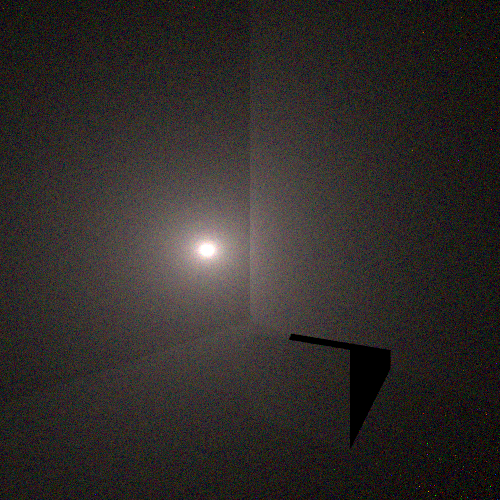
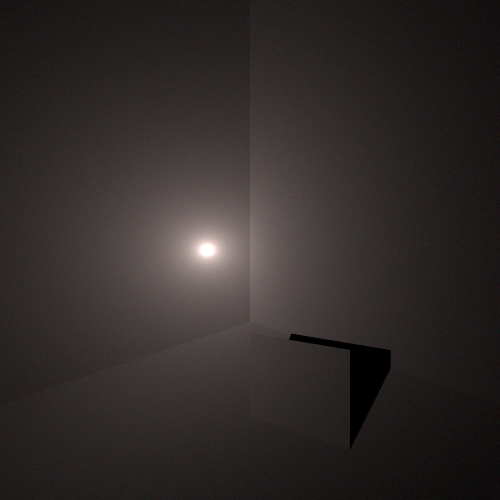
update

diff --git a/src/main/java/test/CircleLS/SpotLight_test.java b/src/main/java/test/CircleLS/SpotLight_test.java
@@ -6,7 +6,6 @@
 package test.CircleLS;
 
 import color.implementations.SPDrange;
-import color.implementations.SPDsingle;
 import javafx.application.Application;
 import javafx.event.ActionEvent;
 import javafx.event.EventHandler;
@@ -17,10 +16,7 @@ import javafx.scene.control.TextField;
 import javafx.scene.image.Image;
 import javafx.scene.image.ImageView;
 import javafx.scene.layout.VBox;
-import light.LightSource;
 import light.implementations.SimpleSpotLight;
-import light.implementations.Sky;
-import math_and_utils.Math3dUtil;
 import renderer.Scene;
 import color.implementations.CIE1931StandardObserver;
 import javafx.stage.Stage;
@@ -38,8 +34,6 @@ import java.io.File;
 import java.io.IOException;
 
 import static javafx.application.Application.launch;
-import static math_and_utils.Math3dUtil.createNormalTransofrmMatrix;
-import static math_and_utils.Math3dUtil.createRotXMatix;
 
 /**
  * @author rasto
@@ -134,7 +128,7 @@ public class SpotLight_test extends Application {
                 90);
         ls.setPower(50000);
 
-        SimplifiedRenderer_Scene scene = new SimplifiedRenderer_Scene();
+        DefaultScene scene = new DefaultScene();
         scene.addCamera(cam);
         scene.addLightSource(ls);
         scene.addSceneObject(
